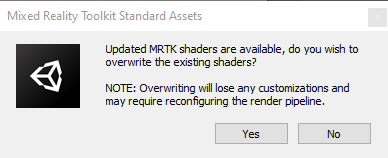
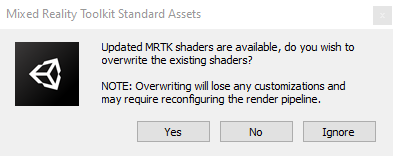
update shader update documentation and images

diff --git a/Documentation/Tools/UpdatingMRTKShaders.md b/Documentation/Tools/UpdatingMRTKShaders.md
@@ -4,7 +4,7 @@ Starting with version 2.6.0, the MRTK shaders are being versioned via the MRTK.S
 
 ![Update shaders prompt](../Images/Tools/UpdateShaderPrompt.png)
 
-Selecting **Yes** instructs MRTK to overwrite the contents of **Assets** > **MRTK** > **Shaders** with the latest version.
+Selecting **Yes** instructs MRTK to overwrite the contents of **Assets** > **MRTK** > **Shaders** with the latest version. Selecting **No** will preserve the current files. **Ignore** will create a file (`IgnoreUpdateCheck.sentinel`) in **Assets** > **MRTK** > **Shaders**, which will suppress future shader update checks.
 
 > [!IMPORTANT]
 > When overwriting the shader files, any custom modifications will be lost. Be sure to backup any modified shader files before upgrading.
@@ -15,6 +15,8 @@ Selecting **Yes** instructs MRTK to overwrite the contents of **Assets** > **MRT
 At is also possible to check for shader updates at any time using **Mixed Reality Toolkit** > **Utilities** > **Check for Shader Updates** on the Unity Editor's menu bar.
 
 ![Check for shader updates](../Images/Tools/ShaderUpdateMenu.png)
+
+**Check for Shader Updates** disregards the `IgnoreUpdateCheck.sentinel` file and allows on-demand shader updating.
 
 > [!NOTE]
 > Checking for shader updates is not required when importing the MRTK .unitypackage files.
